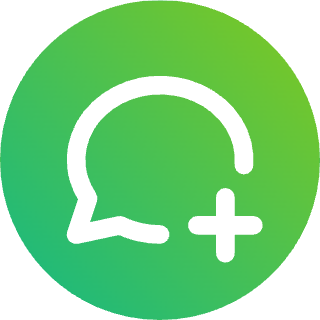
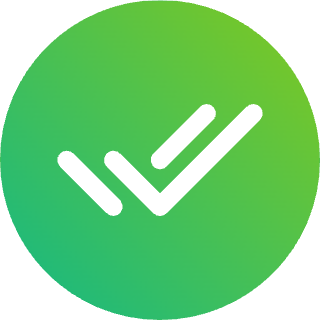
wip

Changed region(s): [[0.1562, 0.2188, 0.8438, 0.7812], [0.5625, 0.5625, 0.8438, 0.8438]]

diff --git a/src/tabs/resource-page.tsx b/src/tabs/resource-page.tsx
@@ -85,7 +85,7 @@ const MockupValidatorSimple = () => (
 const MockupValidatorProFeatures = () => (
   <Card withBorder radius="md" p="xl" w={620}>
     <Stack>
-      <Title order={4}>Powerful Pro Tools</Title>
+      <Title order={4}>Powerful Tools</Title>
       <Text c="dimmed" size="sm">
         {' '}
         Handle large lists with ease and safety.{' '}
@@ -113,10 +113,6 @@ const MockupValidatorProFeatures = () => (
                 color="var(--mantine-color-gray-5)"
               />
               <Text c="dimmed">contacts_list.xlsx</Text>
-              <Badge color="teal" variant="light">
-                {' '}
-                PRO FEATURE{' '}
-              </Badge>
             </Stack>
           </Center>
         </Tabs.Panel>
@@ -128,10 +124,6 @@ const MockupValidatorProFeatures = () => (
               description="For large lists, this pauses validation periodically."
               disabled
             />
-            <Badge color="teal" variant="light" w="fit-content">
-              {' '}
-              PRO FEATURE{' '}
-            </Badge>
           </Stack>
         </Tabs.Panel>
       </Tabs>
@@ -258,7 +250,6 @@ const MockupValidatorSettings = () => (
         legend={
           <Group gap="xs">
             <Text>Batch Processing</Text>
-            <Badge color="teal">PRO</Badge>
           </Group>
         }
       >

diff --git a/src/components/AppMenu.tsx b/src/components/AppMenu.tsx
@@ -1,5 +1,5 @@
 // src/components/AppMenu.tsx
-import { Action, Page, Setting } from '@/constants'
+import { Action, Page, PRIMARY_ICON, Setting } from '@/constants'
 import PageDirectChat from '@/features/direct-chat/PageDirectChat'
 import PageNumberValidator from '@/features/number-validator/PageNumberValidator'
 import useLicense from '@/hooks/useLicense'
@@ -116,12 +116,8 @@ const AppMenu: React.FC = () => {
         <Stack justify="space-between" gap={0} style={{ height: '100%' }}>
           <Box>
             <Tabs.Tab value={Page.HOME} className={classes.tab}>
-              <Tooltip label="Direct Chat" position="left">
-                <Icon
-                  icon="tabler:message-circle-plus"
-                  fontSize={26}
-                  color="white"
-                />
+              <Tooltip label="Check & Verify" position="left">
+                <Icon icon={PRIMARY_ICON} fontSize={26} color="white" />
               </Tooltip>
             </Tabs.Tab>
           </Box>

diff --git a/src/tabs/landing-page.tsx b/src/tabs/landing-page.tsx
@@ -82,7 +82,7 @@ const plans = [
     description: 'Pay once, unlock powerful bulk validation tools forever.',
     placeholderPrice: '$89',
     price: '$39',
-    link: 'https://extdotninja.lemonsqueezy.com/buy/53f1c17b-8636-49cf-b454-ab0ad2700418?media=0&logo=0&desc=0&discount=0',
+    link: 'https://extdotninja.lemonsqueezy.com/buy/c2a57d45-f96b-42ab-b73d-73847a845fe5?logo=0',
     features: [
       'Validate Unlimited Numbers',
       'Import from Excel & CSV Files',
